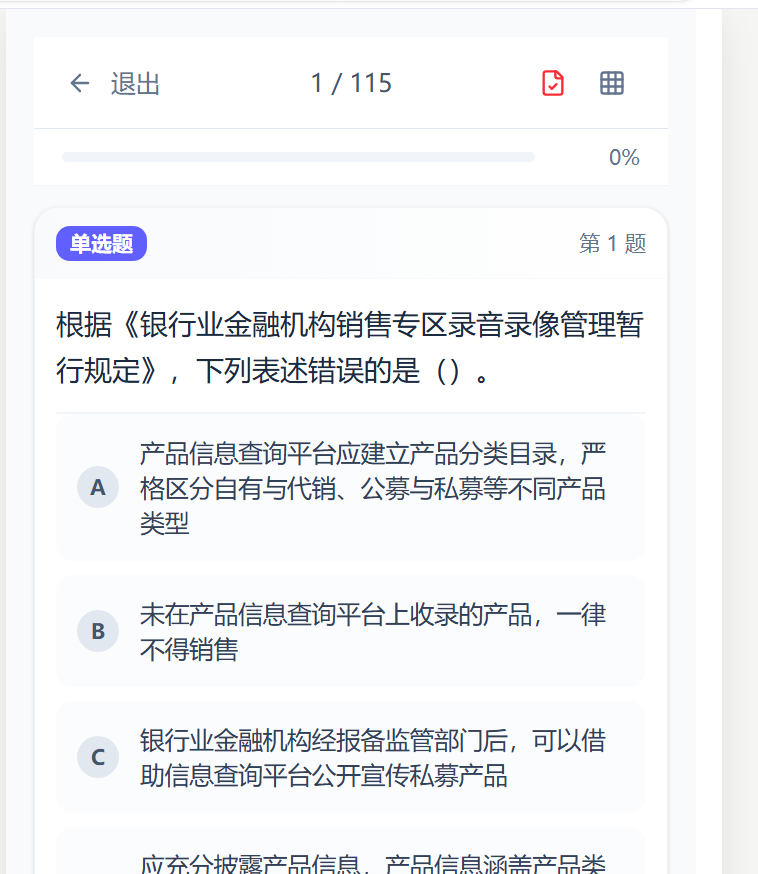
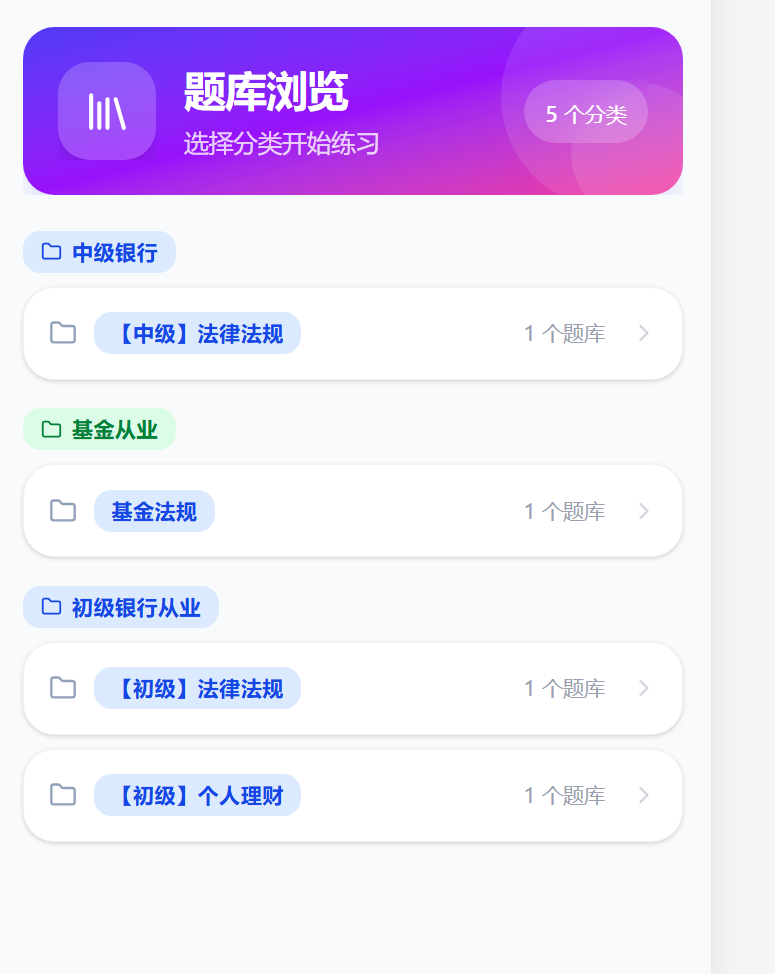
design: 题库浏览页色调淡雅化，标题字体调小

diff --git a/src/app/page.tsx b/src/app/page.tsx
@@ -745,29 +745,29 @@ export default function QuizApp() {
           <TabsContent value="library">
             {/* 页面标题区块 */}
             <div className="mb-5 relative overflow-hidden">
-              {/* 背景卡片 */}
-              <div className="bg-gradient-to-br from-indigo-600 via-purple-600 to-pink-500 rounded-2xl p-5 shadow-lg shadow-indigo-200/50">
+              {/* 背景卡片 - 淡雅色调 */}
+              <div className="bg-gradient-to-br from-slate-100 via-slate-200 to-slate-300 rounded-2xl p-4 shadow-sm">
                 {/* 装饰圆形 */}
-                <div className="absolute -top-6 -right-6 w-32 h-32 bg-white/10 rounded-full"></div>
-                <div className="absolute -bottom-4 -right-4 w-20 h-20 bg-white/10 rounded-full"></div>
+                <div className="absolute -top-6 -right-6 w-32 h-32 bg-white/30 rounded-full"></div>
+                <div className="absolute -bottom-4 -right-4 w-20 h-20 bg-white/30 rounded-full"></div>
                 
                 {/* 内容 */}
-                <div className="relative flex items-center gap-4">
+                <div className="relative flex items-center gap-3">
                   {/* 图标区域 */}
-                  <div className="w-14 h-14 bg-white/20 backdrop-blur rounded-2xl flex items-center justify-center shadow-lg">
-                    <Library className="w-7 h-7 text-white" />
+                  <div className="w-10 h-10 bg-white/60 backdrop-blur rounded-xl flex items-center justify-center shadow-sm">
+                    <Library className="w-5 h-5 text-slate-600" />
                   </div>
                   
                   {/* 文字区域 */}
                   <div className="flex-1">
-                    <h1 className="text-2xl font-bold text-white tracking-tight">题库浏览</h1>
-                    <p className="text-white/80 text-sm mt-1">选择分类开始练习</p>
+                    <h1 className="text-lg font-semibold text-slate-700 tracking-tight">题库浏览</h1>
+                    <p className="text-slate-500 text-xs mt-0.5">选择分类开始练习</p>
                   </div>
                   
                   {/* 装饰徽章 */}
                   {currentUser && (
-                    <div className="px-3 py-1.5 bg-white/20 backdrop-blur rounded-full">
-                      <span className="text-white text-xs font-medium">
+                    <div className="px-2.5 py-1 bg-white/50 backdrop-blur rounded-full">
+                      <span className="text-slate-600 text-xs font-medium">
                         {currentUser.activatedCategories?.length || 0} 个分类
                       </span>
                     </div>
